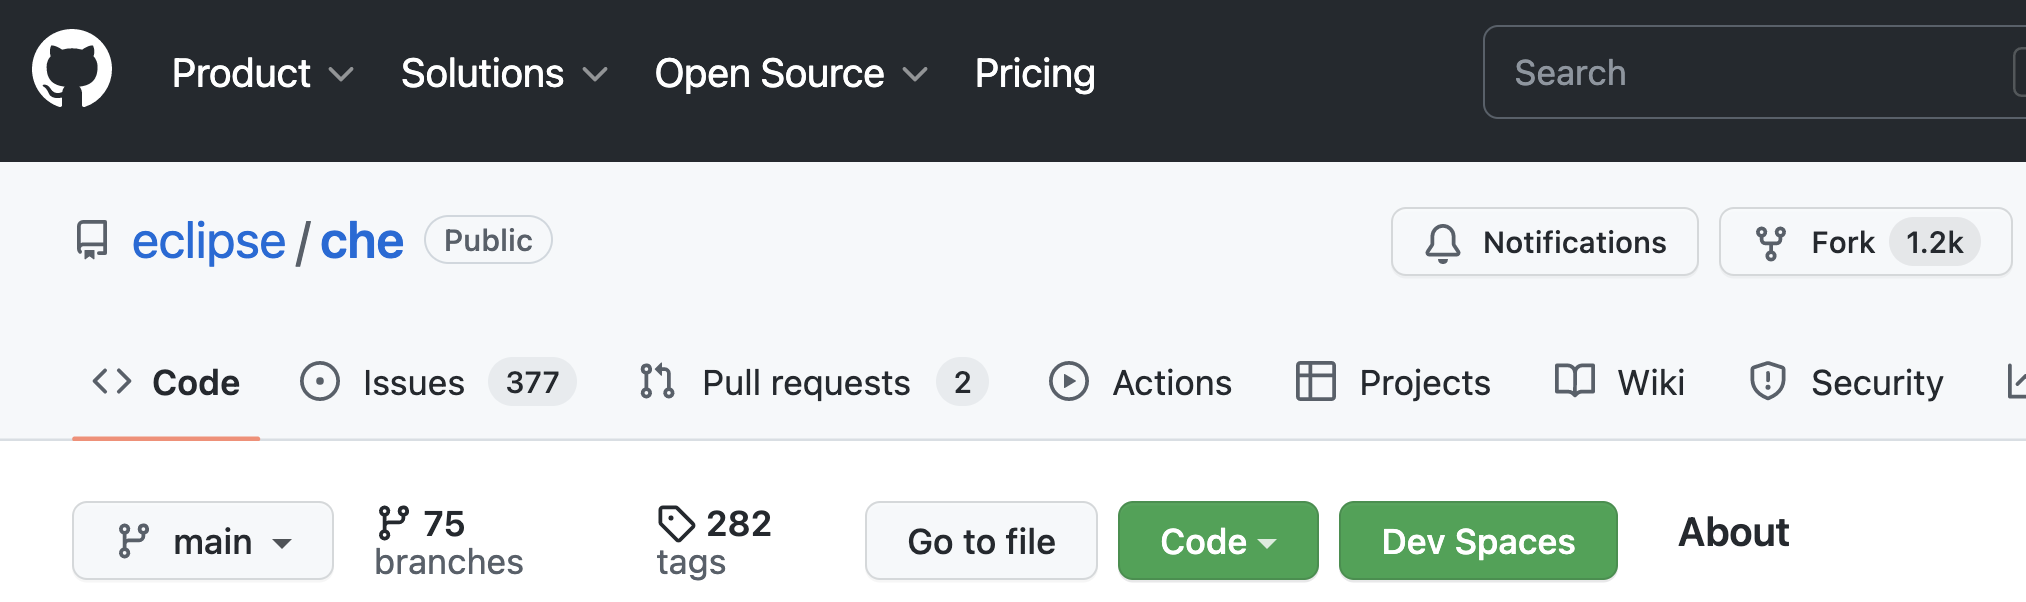
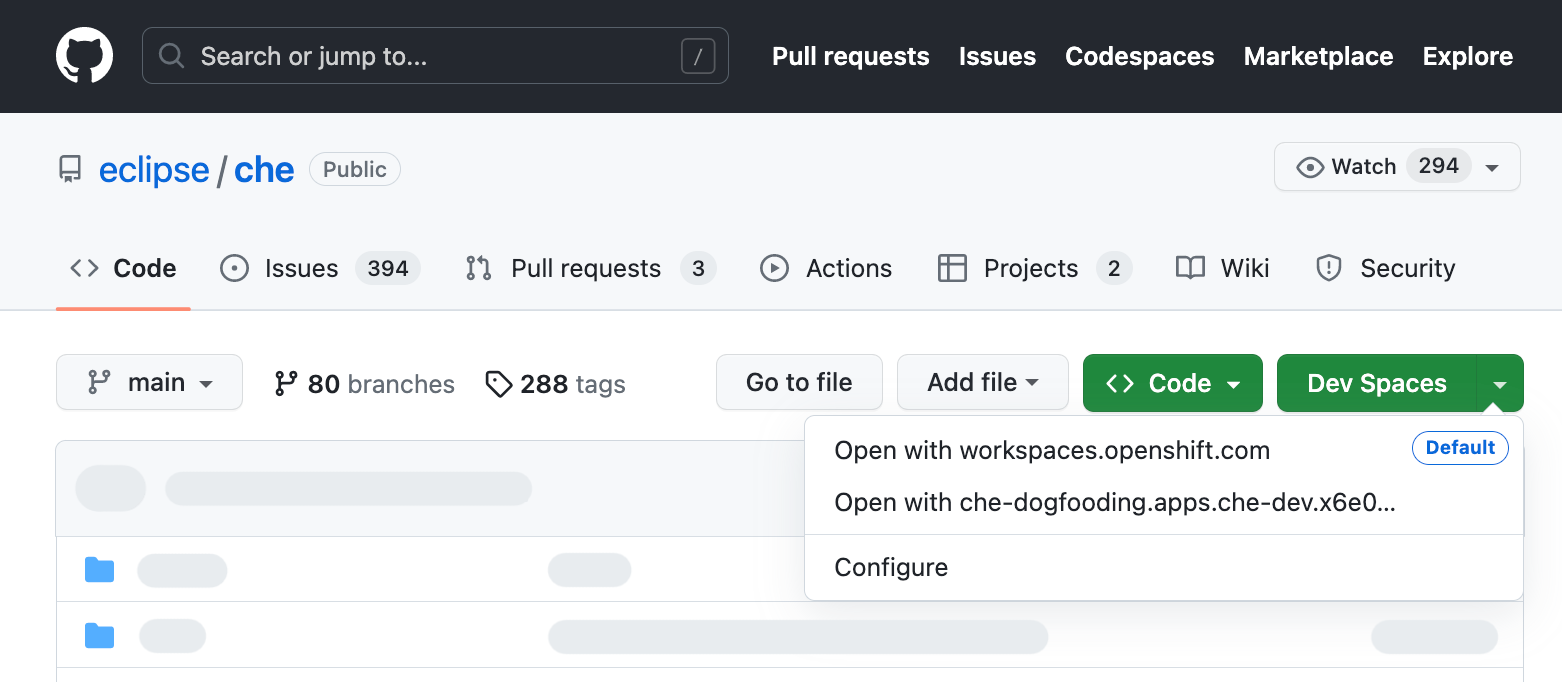
Update readme with Firefox button and new screenshot

diff --git a/README.md b/README.md
@@ -9,6 +9,8 @@ By default, the new workspace is created on the [Eclipse Che® hosted by Red Hat
 
 Additional Dev Spaces (and upstream Eclipse Che®) instances can configured from the extension's options.
 
+[![name](./images/readme/firefox-button.png)](https://addons.mozilla.org/en-US/firefox/addon/try-in-dev-spaces/)
+
 ## Extension permissions
 
  - Requires `storage` permissions to lerverage the [Storage API](https://developer.chrome.com/docs/extensions/reference/storage/) to allow your options to be saved locally and synced across devices.
